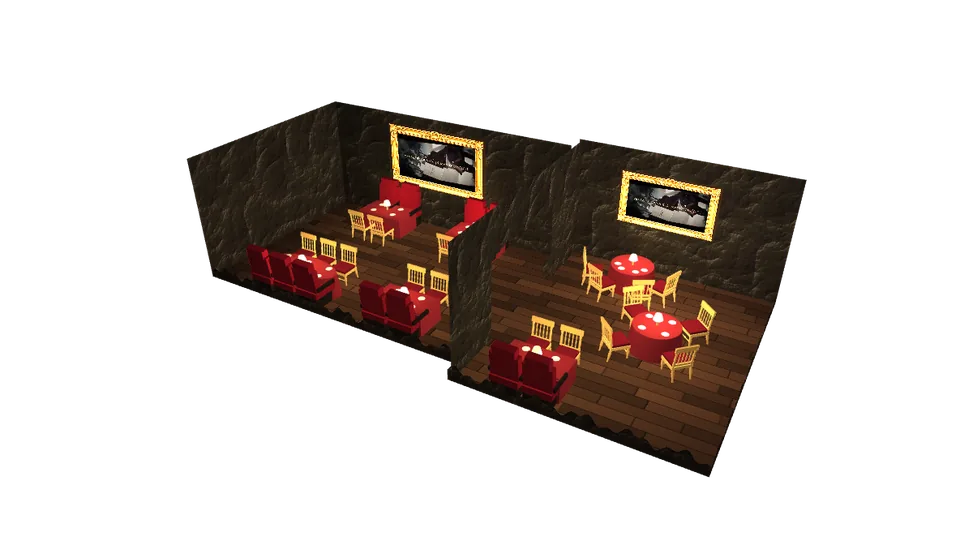
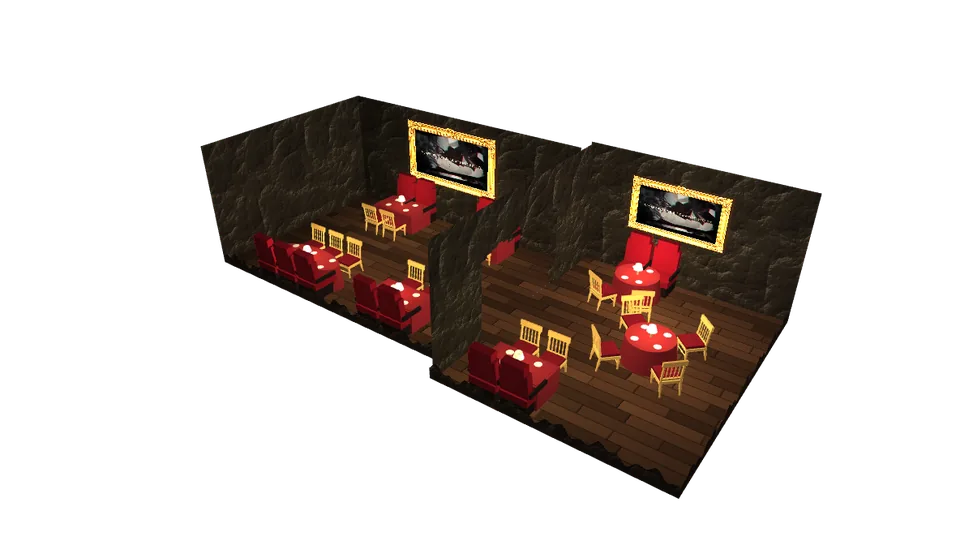
Grotte Napoléon : banquettes de cinéma aussi pour la table ronde du mur gauche
Claude-Session: https://claude.ai/code/session_01Tg9JuR8WfKBoHUYi3GMpp1

diff --git a/clients/la-grotte-napoleon/salle.js b/clients/la-grotte-napoleon/salle.js
@@ -97,7 +97,7 @@
   /* 30 places en tout, comme le vrai restaurant : 18 dans la grande salle (2 + 2 tables collées au mur), 12 dans la salle du fond (2 rondes de 4, une table de 4) */
   const LONGUES = [[-X + .62, 1.7, .28, .5], [-X + .62, 3.9, .28, .5], [X - .62, 1.5, .28, .5], [X - .62, 3.8, .28, .75],
     [X2 - .62, -1.2, .28, .5]];
-  const RONDES = [[-X2 + .7, -1.5, .4, 1], [0, -2.5, .4]]; /* 4e valeur : côté libre (+1 : les chaises vers les x positifs, la table est contre le mur gauche) */ /* une contre le mur gauche (en face de la table collée au mur droit), l'autre au centre de la salle du fond */
+  const RONDES = [[-X2 + .75, -1.5, .4, 1], [0, -2.5, .4]]; /* 4e valeur : côté libre (+1 : la table est contre le mur gauche, deux banquettes de cinéma côté mur, deux chaises côté salle) */ /* une contre le mur gauche (en face de la table collée au mur droit), l'autre au centre de la salle du fond */
   const CHAISES = [], FAUTEUILS = [];
   /* les sièges de cinéma capitonnés rouges, collés au mur, seulement devant les tables collées au mur (demande de
      l'utilisateur : pas de sièges là où il n'y a pas de table) ; un siège tous les 0,54, deux par table de quatre, trois pour la table de six */
@@ -107,14 +107,16 @@
     const n = Math.max(2, Math.round(hz * 2 / .52)), pas = hz * 2 / n, s = x < 0 ? 1 : -1;  /* s : vers l'allée */
     for (let k = 0; k < n; k++) { const zz = z - hz + pas * (k + .5); CHAISES.push([x + s * (hx + .26), zz, s * Math.PI / 2]); }
   }
-  /* les chaises d'une table ronde : tout autour, ou seulement du côté libre quand la table est contre un mur */
-  const anglesRonde = libre => (libre ? [20, 60, 120, 160].map(d => libre * d) : [45, 135, 225, 315]).map(d => d * Math.PI / 180);
-  for (const [x, z, r, libre] of RONDES) for (const a of anglesRonde(libre)) CHAISES.push([x + Math.sin(a) * (r + .3), z + Math.cos(a) * (r + .3), a]);
+  /* les chaises d'une table ronde : tout autour, ou deux du côté libre quand la table est contre un mur (et deux banquettes côté mur) */
+  const anglesRonde = libre => (libre ? [60, 120].map(d => libre * d) : [45, 135, 225, 315]).map(d => d * Math.PI / 180);
+  const anglesAssiettes = libre => (libre ? [60, 120, 240, 300].map(d => libre * d) : [45, 135, 225, 315]).map(d => d * Math.PI / 180);
+  for (const [x, z, r, libre] of RONDES) { for (const a of anglesRonde(libre)) CHAISES.push([x + Math.sin(a) * (r + .3), z + Math.cos(a) * (r + .3), a]);
+    if (libre) for (const dz of [-.27, .27]) FAUTEUILS.push([x - libre * .45, z + dz, libre]); }
   /* les assiettes de présentation argentées, une par place, posées sur la nappe */
   const ASSIETTES = [];
   for (const [x, z, hx, hz] of LONGUES) { const n = Math.max(2, Math.round(hz * 2 / .52)), pas = hz * 2 / n;
     for (let k = 0; k < n; k++) { const zz = z - hz + pas * (k + .5); ASSIETTES.push([x - hx + .13, zz], [x + hx - .13, zz]); } }
-  for (const [x, z, r, libre] of RONDES) for (const a of anglesRonde(libre)) ASSIETTES.push([x + Math.sin(a) * (r - .13), z + Math.cos(a) * (r - .13)]);
+  for (const [x, z, r, libre] of RONDES) for (const a of anglesAssiettes(libre)) ASSIETTES.push([x + Math.sin(a) * (r - .13), z + Math.cos(a) * (r - .13)]);
   /* les lumières : 5 écrans, une lampe par table, 4 appliques à côté des écrans */
   const LAMPES = [...LONGUES.map(([x, z]) => [x, z]), ...RONDES.map(([x, z]) => [x, z])];
   const APPLIQUES = []; /* plus d'appliques : rien sur les murs à part les écrans (demande de l'utilisateur, 2 novembre 2026) */

diff --git a/clients/la-grotte-napoleon/boutique.html b/clients/la-grotte-napoleon/boutique.html
@@ -272,6 +272,6 @@
 
 <script src="produits.js?v=20261102b"></script>
 <script src="textes.js?v=20261102b"></script>
-<script src="grotte.js?v=20261102n"></script>
+<script src="grotte.js?v=20261102o"></script>
 </body>
 </html>

diff --git a/clients/la-grotte-napoleon/panier.html b/clients/la-grotte-napoleon/panier.html
@@ -81,6 +81,6 @@
 
 <script src="produits.js?v=20261102b"></script>
 <script src="textes.js?v=20261102b"></script>
-<script src="grotte.js?v=20261102n"></script>
+<script src="grotte.js?v=20261102o"></script>
 </body>
 </html>

diff --git a/clients/la-grotte-napoleon/produit.html b/clients/la-grotte-napoleon/produit.html
@@ -91,6 +91,6 @@
 
 <script src="produits.js?v=20261102b"></script>
 <script src="textes.js?v=20261102b"></script>
-<script src="grotte.js?v=20261102n"></script>
+<script src="grotte.js?v=20261102o"></script>
 </body>
 </html>

diff --git a/clients/la-grotte-napoleon/reserver.html b/clients/la-grotte-napoleon/reserver.html
@@ -94,6 +94,6 @@
 </div>
 
 <script src="textes.js?v=20261102b"></script>
-<script src="grotte.js?v=20261102n"></script>
+<script src="grotte.js?v=20261102o"></script>
 </body>
 </html>

diff --git a/clients/la-grotte-napoleon/formules.html b/clients/la-grotte-napoleon/formules.html
@@ -147,6 +147,6 @@
 
 
 <script src="textes.js?v=20261102b"></script>
-<script src="grotte.js?v=20261102n"></script>
+<script src="grotte.js?v=20261102o"></script>
 </body>
 </html>

diff --git a/clients/la-grotte-napoleon/index.html b/clients/la-grotte-napoleon/index.html
@@ -205,6 +205,6 @@
 
 
 <script src="textes.js?v=20261102b"></script>
-<script src="grotte.js?v=20261102n"></script>
+<script src="grotte.js?v=20261102o"></script>
 </body>
 </html>

diff --git a/clients/la-grotte-napoleon/NOTES.md b/clients/la-grotte-napoleon/NOTES.md
@@ -82,3 +82,4 @@ Tout ce qui a été fait, décidé ou refusé sur ce site (repris de `ETAT.md` l
 - **Tables rondes centrées (2 novembre 2026, demande de l’utilisateur)** : les deux tables rondes de la salle du fond sont côte à côte, à égale distance de l’axe de la salle (x = ±0,95, z = −2,4), la table collée au mur droit ne bouge pas. Image de secours refaite. Pages en `grotte.js?v=20261102l`.
 - **Salle du fond (2 novembre 2026, demande de l’utilisateur)** : une table ronde collée au mur gauche (x = −X2 + 0,7, z = −1,5), en face de la table collée au mur droit ; l’autre table ronde au centre exact de la salle (x = 0, z = −2,5). Image de secours refaite. Pages en `grotte.js?v=20261102m`.
 - **Chaises hors du mur (2 novembre 2026, signalé par l’utilisateur : « 2 chaises mangent le mur »)** : une table ronde contre un mur a maintenant ses quatre chaises du côté libre (`RONDES`, 4e valeur = côté libre ; angles 20°, 60°, 120°, 160° au lieu de 45° tout autour ; les assiettes suivent). Image de secours refaite. Pages en `grotte.js?v=20261102n`.
+- **Banquettes aussi pour la table ronde du mur gauche (2 novembre 2026, demande de l’utilisateur, « pour la symétrie »)** : la table ronde collée au mur gauche a deux banquettes de cinéma contre le mur et deux chaises dorées côté salle (angles 60° et 120°), comme la table collée au mur droit ; assiettes aux quatre places. Image de secours refaite. Pages en `grotte.js?v=20261102o`.
